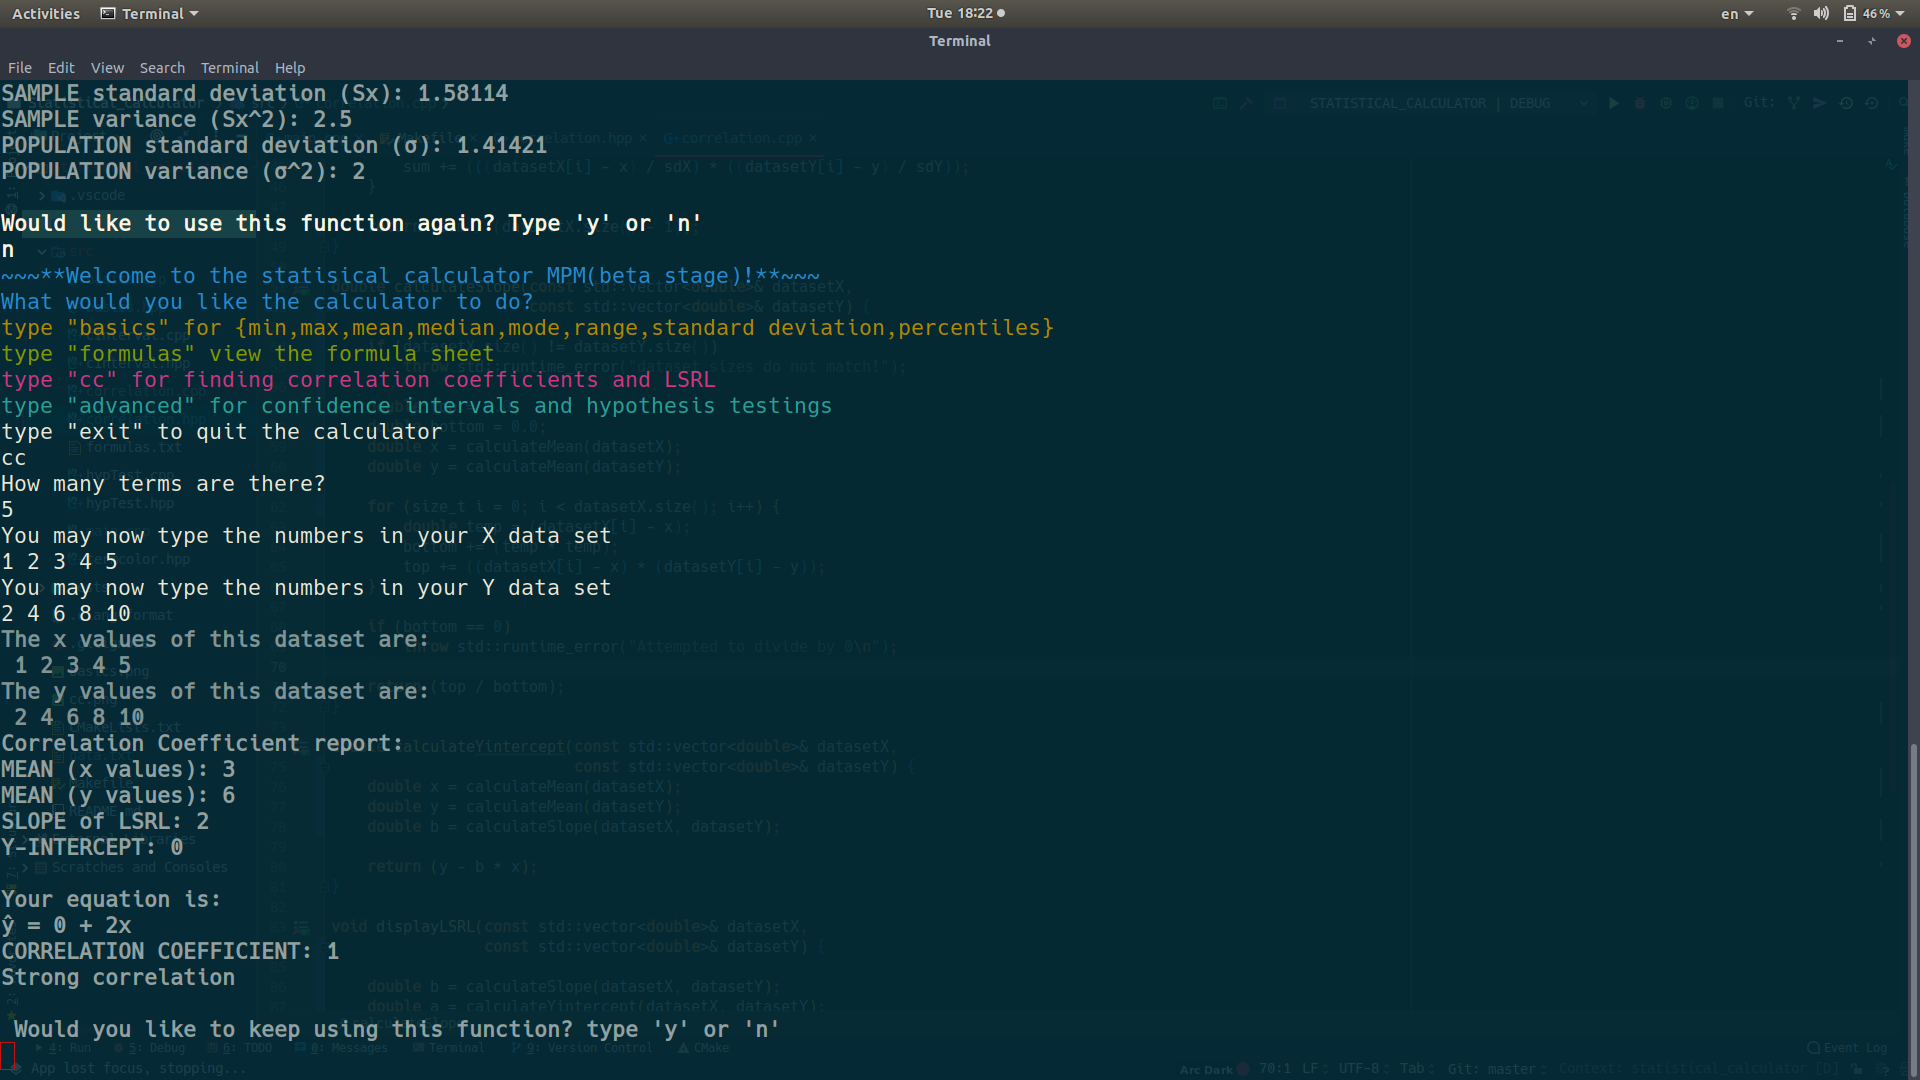
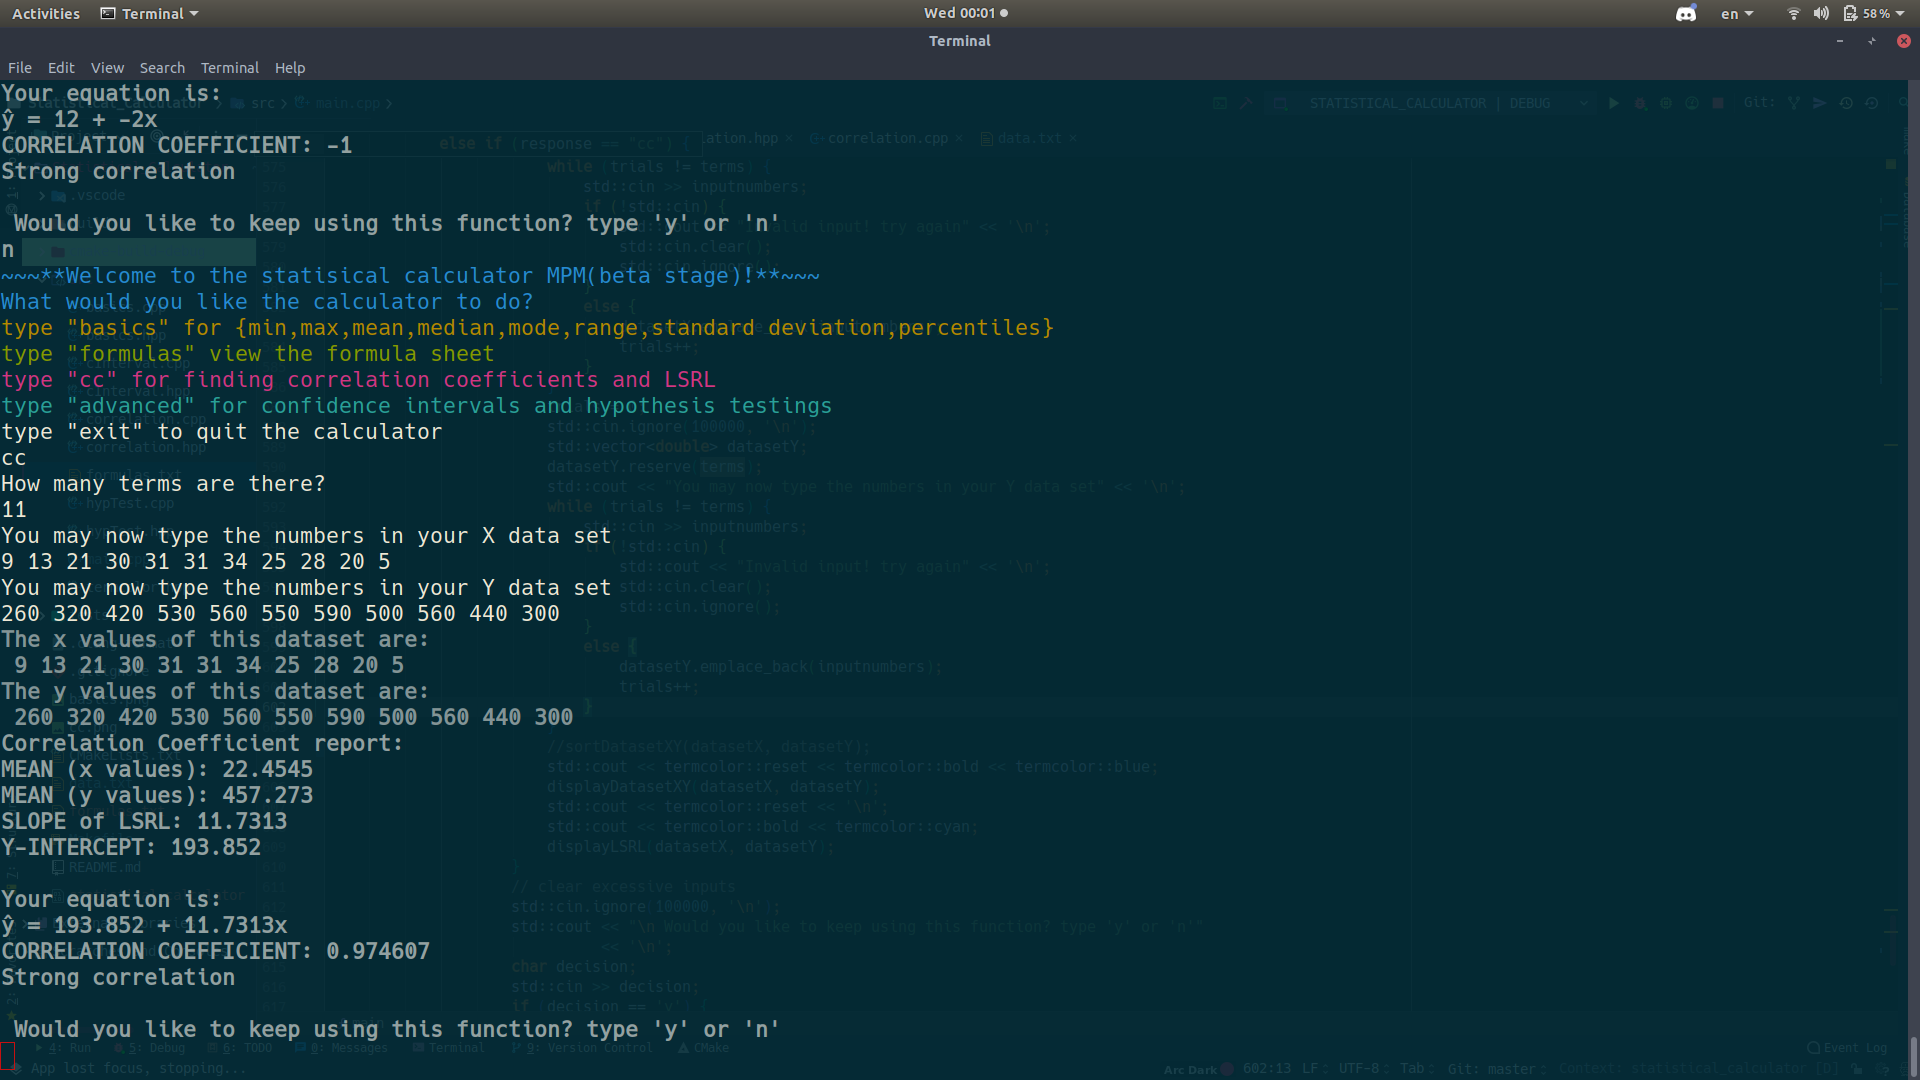
better cc pic, fixed error in line of best fit, reading formulas works!

diff --git a/src/main.cpp b/src/main.cpp
@@ -25,6 +25,7 @@ void readFormulaSheet(const std::string& text) {
 	try {
 		std::string s;
 		std::ifstream formulas(text);
+
 		while (getline(formulas, s)) {
 			std::cout << s << '\n';
 		}
@@ -38,11 +39,14 @@ void readFormulaSheet(const std::string& text) {
 }
 // TODO: MAKE CUSTOM LOGO!
 int main(int argc, char* argv[]) {
-	// READING FILES SECTION
+	/*
+	 *
+	 * READING FILES SECTION
+	 *
+	*/
 	// TODO: add Makefile commands for extra args
 	if (argc == 2) {
 		std::ifstream inputfile;
-		std::string str;
 		char symbols;
 		int num;
 		unsigned int sets = 0;
@@ -55,7 +59,7 @@ int main(int argc, char* argv[]) {
 		}
 
 		std::vector<double> dataset;
-		// cin the rest
+		// read through file and create a dataset
 		while (inputfile >> num >> symbols) {
 			dataset.emplace_back(num);
 			if (symbols == ';') {
@@ -78,20 +82,20 @@ int main(int argc, char* argv[]) {
 				findOutliers(dataset);
 				displayStandardDeviation(dataset);
 				std::cout << '\n';
-				// erase terms once finished showing numbers to user
+				// erase terms once finished showing numbers of the current dataset to the user
 				dataset.clear();
 			}
 		}
 
-		// TODO: Have a function to read in data from txt file and stop at ; or '\n'
 	} // function expects first arg as file and second arg as function
 	else if (argc == 3) {
-		// TODO: Lambda expression to convert second argc to uppercase in case user doesnt want to
 		// use Makefile command
 		// TODO: Based on second argument print desired function for user
 
 		std::ifstream inputfile;
-		std::string s;
+		char symbols;
+		int num;
+		unsigned int sets = 0;
 
 		inputfile.open(argv[1]);
 
@@ -101,13 +105,69 @@ int main(int argc, char* argv[]) {
 		}
 
 		// Should be either Mean Median,Mode,Range,Sd(standard deviation),Min, or Max
-		std::string command(argv[3]);
+		std::string command(argv[2]);
 
 		// ensure 3 argument is uppercase
 		// this creates ease for users who do not want to use the makefile
 		std::for_each(command.begin(), command.end(), [&](char& c) { c = toupper(c); });
+
+		std::vector<double> dataset;
+		// read through file and create a dataset
+		while (inputfile >> num >> symbols) {
+			dataset.emplace_back(num);
+			if (symbols == ';') {
+				sortDataset(dataset);
+				std::cout << "Dataset " << ++sets << '\n';
+				std::for_each(dataset.begin(), dataset.end(), [&](int data) {
+					std::cout << data << " ";
+				});
+
+				if (command == "MEAN")
+					std::cout << "\nMEAN: " << calculateMean(dataset) << '\n';
+
+				if (command == "MEDIAN")
+					std::cout << "MEDIAN: " << calculatePercentiles(dataset).q2 << '\n';
+
+				if (command == "PERCENTILE") {
+					std::cout << "INTERQUARTILE RANGE: " << calculateInterquartileRange(dataset) << '\n';
+					displayPercentiles(dataset);
+				}
+
+				if (command == "MODE") {
+					std::cout << "\nMODE: ";
+					calculateMode(dataset);
+				}
+
+				if (command == "RANGE")
+					std::cout << "RANGE: " << calculateRange(dataset) << '\n';
+
+				if (command == "MIN")
+					std::cout << "MIN: " << dataset.front() << '\n';
+
+				if (command == "MAX")
+					std::cout << "MAX: " << dataset.back() << '\n';
+
+				if (command == "OUTLIERS") {
+					std::cout << '\n';
+					findOutliers(dataset);
+				}
+
+				if (command == "SD") {
+					std::cout << '\n';
+					displayStandardDeviation(dataset);
+				}
+
+				std::cout << '\n';
+				// erase terms once finished showing numbers of the current dataset to the user
+				dataset.clear();
+			}
+		}
 	}
-	// DEFAULT INTERFACE
+	/*
+	 *
+	 * DEFAULT INTERFACE SECTION
+	 *
+	*/
 	else {
 		bool backtrack = true;
 		while (backtrack) {
@@ -541,7 +601,6 @@ int main(int argc, char* argv[]) {
 								trials++;
 							}
 						}
-						sortDatasetXY(datasetX, datasetY);
 						std::cout << termcolor::reset << termcolor::bold << termcolor::blue;
 						displayDatasetXY(datasetX, datasetY);
 						std::cout << termcolor::reset << '\n';

diff --git a/src/correlation.hpp b/src/correlation.hpp
@@ -10,8 +10,7 @@ purpose: correlation header file. Calculates slope, y-intercept, LSRL line and C
 #include <iostream>
 #include <vector>
 
-// printing/sorting functions
-void sortDatasetXY(std::vector<double>& datasetX, std::vector<double>& datasetY);
+// printing functions
 void displayDatasetXY(const std::vector<double>& datasetX, const std::vector<double>& datasetY);
 void displayLSRL(const std::vector<double>& datasetX,
 			     const std::vector<double>& datasetY);

diff --git a/src/correlation.cpp b/src/correlation.cpp
@@ -10,10 +10,6 @@ purpose: implements the correlation class
 #include <iostream>
 #include <vector>
 
-void sortDatasetXY(std::vector<double>& datasetX, std::vector<double>& datasetY) {
-	std::sort(datasetX.begin(), datasetX.end());
-	std::sort(datasetY.begin(), datasetY.end());
-}
 
 void displayDatasetXY(const std::vector<double>& datasetX, const std::vector<double>& datasetY) {
 	std::cout << "The x values of this dataset are: " << '\n';
